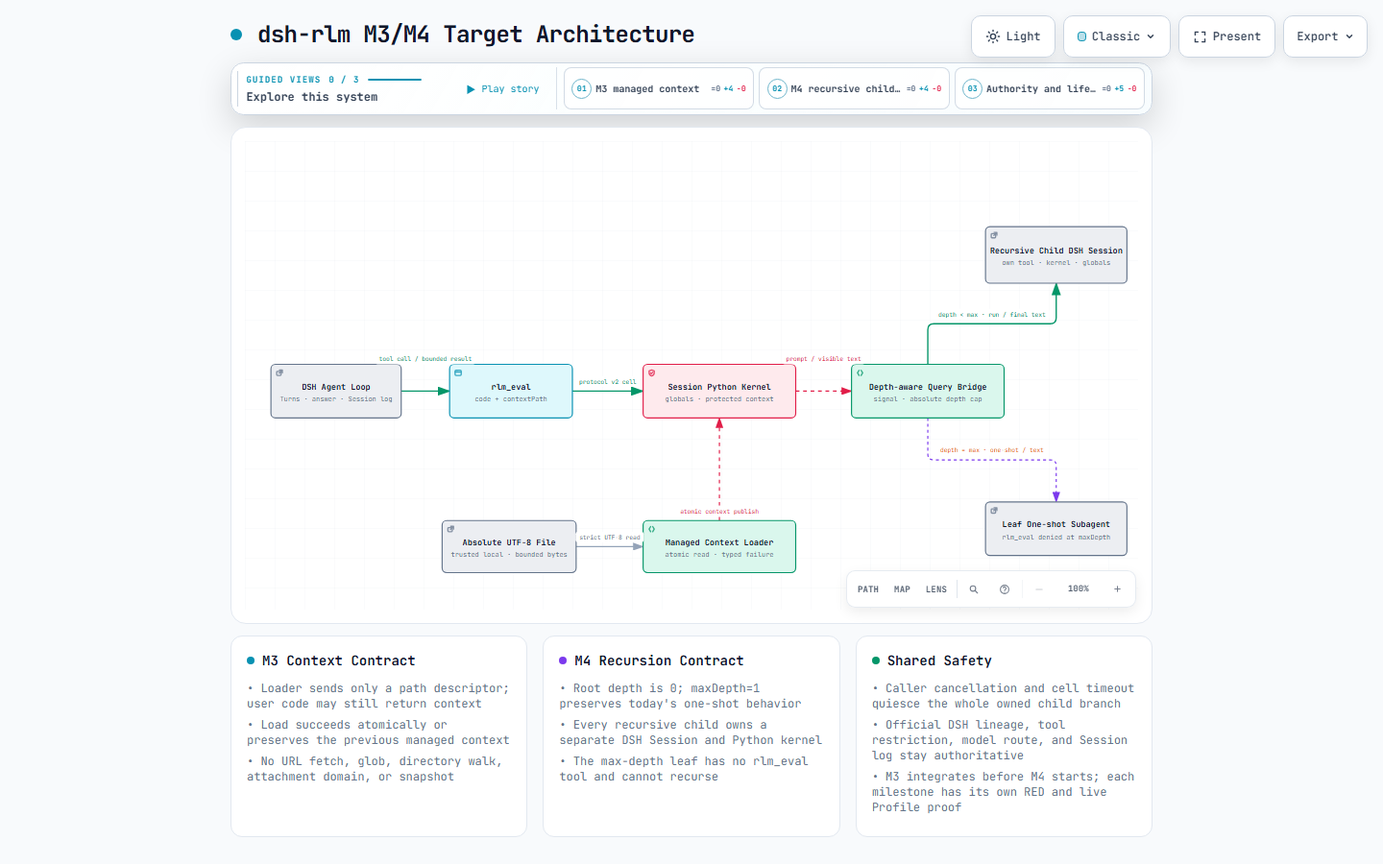
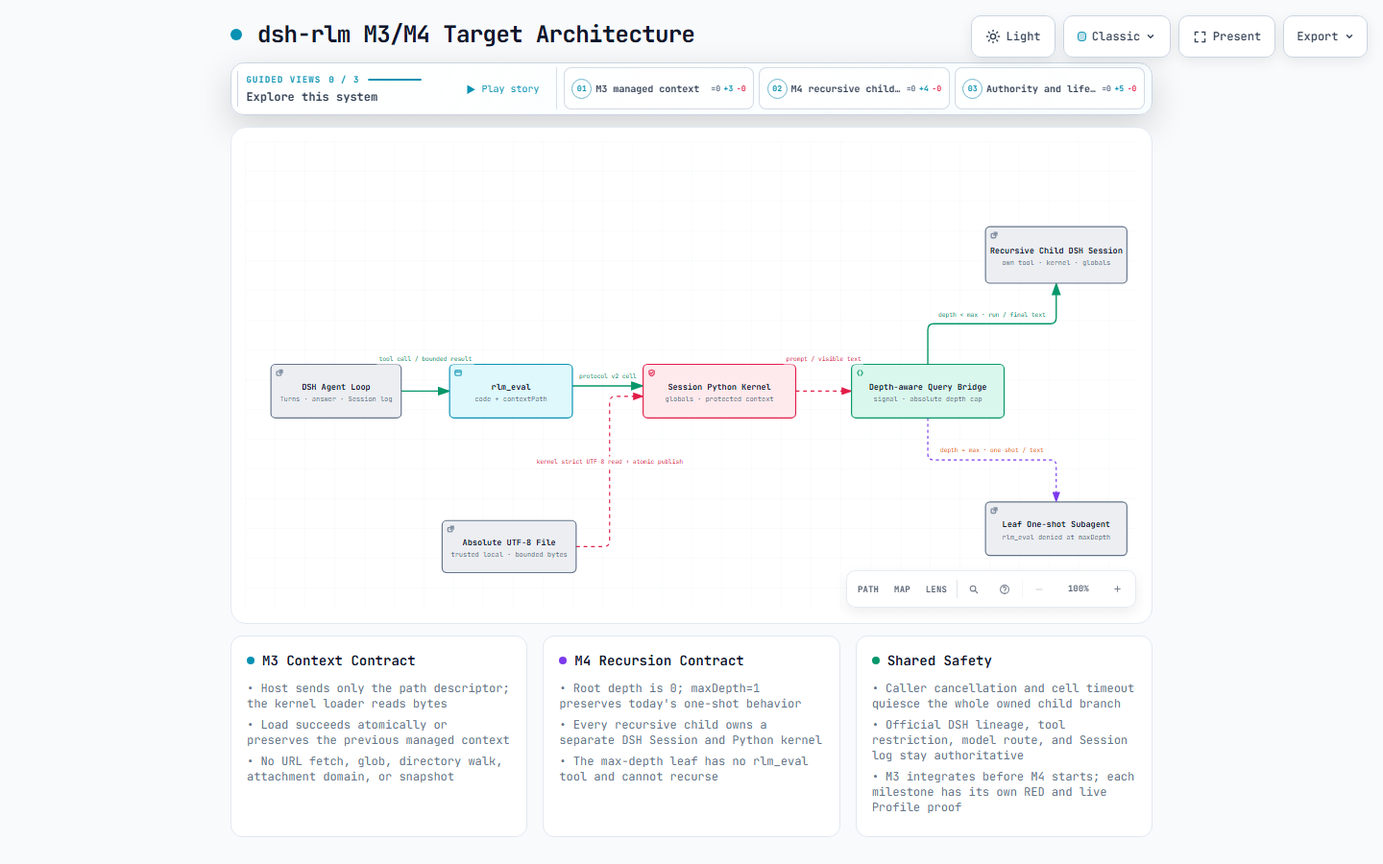
docs: correct M3 diagram ownership boundary

diff --git a/docs/dsh-rlm-architecture.html b/docs/dsh-rlm-architecture.html
@@ -4952,7 +4952,7 @@
       </div>
     </div>
 
-    <script id="archify-guided-views-data" type="application/json">[{"id":"managed-context","label":"M3 managed context","focus":["contextSource","contextLoader","sessionKernel","rlmEval"],"note":"An absolute UTF-8 file becomes a protected Session-local context variable without copying its contents through the model-facing tool call."},{"id":"recursive-child","label":"M4 recursive child RLM","focus":["queryBridge","recursiveChild","leafChild","sessionKernel"],"note":"Depth below the configured cap creates a child DSH Session with its own rlm_eval kernel; the leaf remains a one-shot child."},{"id":"authority-lifecycle","label":"Authority and lifecycle","focus":["agentLoop","rlmEval","sessionKernel","queryBridge","recursiveChild"],"note":"DSH owns Agent turns and Session logs; dsh-rlm owns only Session kernels, managed context state, and query cleanup."}]</script>
+    <script id="archify-guided-views-data" type="application/json">[{"id":"managed-context","label":"M3 managed context","focus":["contextSource","sessionKernel","rlmEval"],"note":"An absolute UTF-8 file becomes a protected Session-local context variable without copying its contents through the model-facing tool call."},{"id":"recursive-child","label":"M4 recursive child RLM","focus":["queryBridge","recursiveChild","leafChild","sessionKernel"],"note":"Depth below the configured cap creates a child DSH Session with its own rlm_eval kernel; the leaf remains a one-shot child."},{"id":"authority-lifecycle","label":"Authority and lifecycle","focus":["agentLoop","rlmEval","sessionKernel","queryBridge","recursiveChild"],"note":"DSH owns Agent turns and Session logs; dsh-rlm owns only Session kernels, managed context state, and query cleanup."}]</script>
 
     <script id="archify-i18n-data" type="application/json">{"locale":"en","messages":{"viewer.kind.frontend":"Frontend","viewer.kind.backend":"Backend","viewer.kind.database":"Database","viewer.kind.cloud":"Cloud","viewer.kind.security":"Security","viewer.kind.messagebus":"Message bus","viewer.kind.external":"External","viewer.kind.neutral":"Neutral","viewer.kind.node":"Node","viewer.kind.start":"Start","viewer.kind.active":"Active","viewer.kind.waiting":"Waiting","viewer.kind.decision":"Decision","viewer.kind.success":"Success","viewer.kind.failure":"Failure","viewer.toolbar.actions":"Diagram actions","viewer.theme.toggle.title":"Toggle theme (T)","viewer.theme.toggle":"Toggle color theme","viewer.theme.dark":"Dark","viewer.theme.light":"Light","viewer.preset.choose.title":"Choose visual style (S cycles)","viewer.preset.choose":"Choose visual style","viewer.preset.style":"Style","viewer.preset.menu":"Visual style","viewer.preset.identity":"Visual identity","viewer.preset.cycles":"S cycles","viewer.preset.classic":"Classic","viewer.preset.classic.short":"Classic","viewer.preset.classic.hint":"Stable technical default","viewer.preset.flow":"Signal Flow","viewer.preset.flow.short":"Flow","viewer.preset.flow.hint":"Motion-forward presentation","viewer.preset.blueprint":"Blueprint","viewer.preset.blueprint.hint":"Engineering review","viewer.preset.editorial":"Editorial","viewer.preset.editorial.hint":"Publication and launch notes","viewer.preset.badge.signalFlow":"SIGNAL FLOW","viewer.preset.badge.blueprint":"BLUEPRINT / REV 01","viewer.preset.badge.editorial":"EDITORIAL / FIELD NOTE","viewer.preset.badge.editorialPlate":"ARCHIFY / PLATE 04","viewer.preset.current":"Visual style: {style}. Choose visual style","viewer.motion.live":"Live","viewer.motion.still":"Still","viewer.motion.pause":"Pause motion","viewer.motion.resume":"Resume motion","viewer.motion.reduced":"Motion paused by reduced-motion preference","viewer.motion.hidden":"Motion paused while this page is hidden","viewer.motion.yielding":"Pause motion; currently yielding to {owner}","viewer.motion.yielding.title":"Live preview enabled · yielding to {owner}","viewer.owner.story":"the guided story","viewer.owner.chapter":"the active chapter","viewer.owner.chapterPreview":"the chapter delta preview","viewer.owner.handoff":"the chapter handoff","viewer.owner.route":"Route Probe","viewer.owner.lens":"Semantic Lens","viewer.owner.relationship":"Relationship Preview","viewer.owner.intent":"Intent Trace","viewer.owner.focus":"semantic focus","viewer.owner.legend":"legend preview","viewer.owner.reader":"reader interaction","viewer.present.enter":"Enter presentation stage","viewer.present.enter.title":"Presentation stage (F)","viewer.present.exit":"Exit presentation stage","viewer.present.exit.title":"Exit presentation stage (F or Escape)","viewer.present.present":"Present","viewer.present.exit.label":"Exit","viewer.export.button":"Export","viewer.export.button.title":"Export diagram (E)","viewer.export.diagram":"Export diagram","viewer.export.menu":"Export","viewer.export.subtitle":"Portable, clean outputs","viewer.export.share":"Share","viewer.export.shareCard":"Share Card","viewer.export.routeShareCard":"Route Share Card","viewer.export.reachShareCard":"Reach Share Card","viewer.export.copyShareCard":"Copy Share Card","viewer.export.copyDiagram":"Copy diagram","viewer.export.clipboardPng":"PNG to clipboard","viewer.export.raster":"Raster images","viewer.export.image":"Image","viewer.export.lossless":"Lossless image","viewer.export.compact":"Compact image","viewer.export.modern":"Modern image","viewer.export.vectorMotion":"Vector and motion","viewer.export.vectorMotion.heading":"Vector \u0026 motion","viewer.export.editable":"Editable vector","viewer.export.motion6s":"6s motion","viewer.export.unsupported":"Not supported by this browser","viewer.export.clipboardUnsupported":"Clipboard image write not supported by this browser","viewer.export.clipboardUnsupported.period":"Clipboard image write not supported by this browser.","viewer.export.clipboardUnsupported.short":"Clipboard image write not supported in this browser.","viewer.export.motionUnavailable":"Motion capture unavailable in this browser","viewer.export.webmUnavailable":"WebM unavailable in this browser","viewer.export.failed":"Export failed: {message}","viewer.export.unknownVariant":"Unknown Share Card variant: {variant}","viewer.export.routeRequired":"Trace a route before exporting a Route Share Card","viewer.export.reachRequired":"Trace authored reach before exporting a Reach Share Card","viewer.export.unknown":"unknown","viewer.export.routeFailed":"Route Share Card export failed: {message}","viewer.export.reachFailed":"Reach Share Card export failed: {message}","viewer.export.copyFailed":"Copy failed: {message}","viewer.export.copiedPng":"Copied PNG to clipboard","viewer.export.copiedShare":"Copied Share Card","viewer.export.downloadedShare":"Downloaded Share Card","viewer.export.downloadedRoute":"Downloaded Route Share Card","viewer.export.downloadedReach":"Downloaded Reach Share Card","viewer.export.downloadedWebm":"Downloaded WebM","viewer.export.recording":"Recording 6 seconds of motion…","viewer.export.card.routeSummary.one":"Route: {source} → {target} · {count} directed hop","viewer.export.card.routeSummary.other":"Route: {source} → {target} · {count} directed hops","viewer.export.card.reachSummary":"Authored {direction} from {origin} · {nodes} · {links} · max {hops}","viewer.export.card.node.one":"{count} node","viewer.export.card.node.other":"{count} nodes","viewer.export.card.link.one":"{count} link","viewer.export.card.link.other":"{count} links","viewer.export.card.hop.one":"{count} hop","viewer.export.card.hop.other":"{count} hops","viewer.export.card.routeBadge":"ARCHIFY · ROUTE · {hops}","viewer.export.card.reachBadge":"ARCHIFY · {direction} REACH","viewer.export.card.defaultBadge":"ARCHIFY · {preset} · {theme}","viewer.export.direction.upstream":"Upstream","viewer.export.direction.downstream":"Downstream","viewer.export.error.canvasUnavailable":"Canvas unavailable for {label}","viewer.export.error.contextUnavailable":"2D canvas context unavailable for {label}","viewer.export.error.toBlobUnavailable":"canvas.toBlob unavailable for {label}","viewer.export.error.toBlobNull":"canvas.toBlob returned no data for {label}","viewer.export.error.variantsCombined":"Share Card variants cannot be combined","viewer.export.error.viewerState":"Share Card export could not remove temporary viewer state","viewer.export.error.routeState":"Route Card export could not preserve the resolved route safely","viewer.export.error.reachState":"Reach Card export could not preserve authored reach safely","viewer.export.error.webmRequirements":"WebM motion export requires a trace animation and browser MediaRecorder support","viewer.export.error.mediaRecorder":"MediaRecorder failed","viewer.export.error.emptyWebm":"MediaRecorder produced an empty WebM","viewer.export.error.webmBackground":"SVG background could not be loaded for WebM export","viewer.guided.region":"Guided diagram views","viewer.guided.previous":"Previous guided view","viewer.guided.previous.title":"Previous guided view ([)","viewer.guided.next":"Next guided view","viewer.guided.next.title":"Next guided view (])","viewer.guided.views":"Guided views","viewer.guided.explore":"Explore this system","viewer.guided.intro":"Step through curated paths without changing the source diagram.","viewer.guided.trail":"Story trail","viewer.guided.beat":"Beat","viewer.guided.nextBeat":"Next","viewer.guided.play":"Play guided story","viewer.guided.play.title":"Play guided story (P)","viewer.guided.pause":"Pause guided story","viewer.guided.pause.title":"Pause guided story (P)","viewer.guided.replay":"Replay guided story","viewer.guided.replay.title":"Replay guided story (P)","viewer.guided.playStory":"Play story","viewer.guided.pauseStory":"Pause","viewer.guided.replayStory":"Replay story","viewer.guided.motionUnavailable":"Story playback unavailable while motion is Still","viewer.guided.enableMotion":"Switch motion to Live to play the guided story","viewer.guided.selectBeatLink":"Select a Story Beat to copy its exact link","viewer.guided.copyMoment":"Copy moment","viewer.guided.momentCopied":"Moment link copied","viewer.guided.momentCopyFailed":"Could not copy story moment link","viewer.guided.copied":"Copied","viewer.guided.copyFailed":"Copy failed","viewer.guided.showAll":"Show all","viewer.guided.showAll.aria":"Show entire diagram","viewer.guided.chapters":"Story chapters","viewer.guided.storyTrail":"Story trail for {label}: {count} beats","viewer.guided.chapter.open":"Open chapter {index} of {total}: {label}, {count} stops","viewer.guided.chapter.current":"Current chapter {index} of {total}: {label}, {count} stops","viewer.guided.chapter.selectedNodes":"{count} selected nodes","viewer.guided.chapter.stops":"{count} stops","viewer.guided.chapter.stop.one":"{count} stop","viewer.guided.chapter.stop.other":"{count} stops","viewer.guided.chapter.current.title":"{label} — current chapter, {count} stops","viewer.guided.chapter.delta.expanded":"{stay} stay, {enter} enter, {leave} leave","viewer.guided.chapter.delta.aria":"Open chapter {index} of {total}: {label}. Chapter focus delta: {delta}","viewer.guided.chapter.delta.title":"{label} — {delta} chapter focus","viewer.guided.handoff":"{from} → {to} · via {label}","viewer.guided.share.chapter":"Chapter {index} / {total}","viewer.guided.share.initial":"Chapter 01 / 01","viewer.guided.share.default":"Guided chapter","viewer.guided.state.ready":"Ready","viewer.guided.state.playing":"Playing","viewer.guided.state.settled":"Settled","viewer.guided.state.paused":"Paused","viewer.guided.state.pinned":"Pinned","viewer.guided.state.still":"Still","viewer.guided.share.step":"Step {index} / {total} · {label}","viewer.guided.share.staticMoment":"{step} · Static moment","viewer.guided.share.complete":"{count} steps complete · {note}","viewer.guided.share.settled":"Path settled for reading.","viewer.guided.share.staticPath":"{count} steps · Static path","viewer.guided.share.ready":"{count} steps · Ready","viewer.guided.share.aria":"{state} chapter {index} of {total}: {label}. {beat}. {route}","viewer.guided.beat.start":"Beat {index} / {total} · {label} · starting point","viewer.guided.beat.forward":"Beat {index} / {total} · {from} → {to}","viewer.guided.beat.reverse":"Beat {index} / {total} · {from} → {to} · reverse authored link","viewer.guided.beat.multiple":"Beat {index} / {total} · {from} ⇄ {to} · {count} authored links","viewer.guided.beat.group":"Beat {index} / {total} · {from} · {to} · grouped · no direct link","viewer.guided.beat.aria.prefix":"Story beat {index} of {total}: {label}. ","viewer.guided.beat.aria.start":"Starting point.","viewer.guided.beat.aria.forward":"From {from} through one authored forward relationship.","viewer.guided.beat.aria.reverse":"From {from}; the authored relationship points from {to} to {from}.","viewer.guided.beat.aria.multiple":"From {from} through {count} authored relationships; shown without arbitrary motion.","viewer.guided.beat.aria.group":"Grouped from {from} with no direct authored relationship.","viewer.guided.caption.start":"Starting point","viewer.guided.caption.grouped":"Grouped transition · no direct authored link","viewer.guided.caption.more":" +{count} more","viewer.guided.caption.reverse":"Reverse authored relationship","viewer.guided.caption.relationships":"{count} authored relationships","viewer.guided.caption.relationship":"Authored relationship","viewer.guided.caption.direction":"authored direction: {from} → {to}","viewer.guided.caption.starting":"Authored starting point","viewer.guided.beatLink":"Copy link to current story moment: Beat {index} of {total}: {label}","viewer.guided.noStory":"This diagram has no authored guided story.","viewer.guide.eyebrow":"Diagram guide","viewer.guide.close":"Close diagram guide","viewer.guide.inspecting":"Inspecting compiled semantics","viewer.guide.actions":"Diagram exploration actions","viewer.guide.find":"Find any node","viewer.guide.find.hint":"Search labels, responsibilities, kinds, and stable IDs.","viewer.guide.route":"Trace a route","viewer.guide.route.aria":"Trace a directed route","viewer.guide.route.hint":"Ask how two semantic nodes connect in authored direction.","viewer.guide.map":"See the whole system","viewer.guide.map.hint":"Open Semantic Radar with a live viewport and stable nodes.","viewer.guide.lens":"Compare semantic kinds","viewer.guide.lens.hint":"Count roles, reveal their traffic, and compare direct authored links.","viewer.guide.story":"Play the guided story","viewer.guide.story.hint":"Walk the authored chapters and real relationships.","viewer.guide.present":"Enter Presentation Stage","viewer.guide.present.hint":"Give the live diagram the viewport without changing export.","viewer.guide.shortcuts":"Additional keyboard shortcuts","viewer.guide.shortcut.export":"Export","viewer.guide.shortcut.theme":"Theme","viewer.guide.shortcut.style":"Style","viewer.guide.shortcut.reset":"Reset","viewer.guide.shortcut.zoomIn":"Zoom in","viewer.guide.shortcut.zoomOut":"Zoom out","viewer.guide.shortcut.close":"Close","viewer.guide.facts":"{nodes} · {relationships} · {views}","viewer.guide.fact.node.one":"{count} semantic node","viewer.guide.fact.node.other":"{count} semantic nodes","viewer.guide.fact.relationship.one":"{count} relationship","viewer.guide.fact.relationship.other":"{count} relationships","viewer.guide.fact.view.one":"{count} guided view","viewer.guide.fact.view.other":"{count} guided views","viewer.guide.story.available.one":"Walk {count} authored chapter and its real relationships.","viewer.guide.story.available.other":"Walk {count} authored chapters and their real relationships.","viewer.guide.story.unavailable":"No authored guided story in this diagram.","viewer.guide.open":"Open diagram guide","viewer.guide.noStory":"This diagram has no authored guided story.","viewer.finder.title":"Find a node","viewer.finder.close":"Close node finder","viewer.finder.placeholder":"Search labels or IDs","viewer.finder.search":"Search diagram nodes","viewer.finder.results":"Diagram nodes","viewer.finder.empty":"No matching nodes","viewer.finder.result.focus":"Focus {label}","viewer.finder.result.routeStart":"Choose {label} as route start","viewer.finder.result.routeTarget":"Choose {label} as route destination, {links}","viewer.finder.status.empty":"No matching nodes","viewer.finder.status.count.one":"{count} matching node","viewer.finder.status.count.other":"{count} matching nodes","viewer.finder.noun.nodes":"nodes","viewer.finder.link.one":"{count} link","viewer.finder.link.other":"{count} links","viewer.finder.result.focus.one":"Focus {label}, {count} related connection","viewer.finder.result.focus.other":"Focus {label}, {count} related connections","viewer.finder.status.filtered":"{visible} of {available} {noun}","viewer.finder.status.all":"{available} {noun}","viewer.passport.eyebrow":"Semantic passport","viewer.passport.metadata":"Node metadata","viewer.passport.evidence":"Verified source evidence","viewer.passport.verified":"Verified source","viewer.passport.reach":"Authored reach","viewer.passport.reach.trace":"Trace authored reachability","viewer.passport.upstream":"Upstream","viewer.passport.downstream":"Downstream","viewer.passport.upstream.trace":"Trace upstream authored reachability","viewer.passport.downstream.trace":"Trace downstream authored reachability","viewer.passport.close":"Close semantic passport","viewer.passport.copy":"Copy link","viewer.passport.copy.focus":"Copy link to focused node","viewer.passport.relations":"Relations","viewer.passport.relations.show":"Show connected relationships","viewer.passport.relations.hide":"Hide connected relationships","viewer.passport.relations.list":"Connected relationships","viewer.passport.copyRelation":"Copy relation","viewer.passport.copyNode":"Copy node","viewer.passport.copyPinned":"Copy link to pinned relationship","viewer.passport.copySource":"Copy link to source node","viewer.passport.copy.focused.success":"Focused node link copied","viewer.passport.copy.pinned.success":"Pinned relationship link copied","viewer.passport.copy.focused.failed":"Could not copy focused node link","viewer.passport.copy.pinned.failed":"Could not copy pinned relationship link","viewer.passport.relationship.none":"No connected relationships","viewer.passport.relationship.count.one":"{count} relation","viewer.passport.relationship.count.other":"{count} relations","viewer.passport.relationship.show.one":"Show {count} connected relationship","viewer.passport.relationship.show.other":"Show {count} connected relationships","viewer.passport.relationship.summary":"{out} outgoing · {in} incoming{loops}","viewer.passport.relationship.loops":" · {count} loop","viewer.passport.relationship.explorer":"Direct relationship explorer","viewer.passport.relationship.help":"Use arrow keys to explore relationships. Press Enter or Space to pin details; Escape clears.","viewer.passport.relationship.loopsBack":"loops back","viewer.passport.relationship.connectsTo":"connects to","viewer.passport.relationship.connectsFrom":"connects from","viewer.passport.relationship.pinned":"Pinned relationship · {from} → {to} · {label}","viewer.passport.relationship.inspect":"Inspect relationship {index} of {total}: {from} to {to}, {label}. Press Enter for details.","viewer.passport.relationship.group.out":"Outgoing","viewer.passport.relationship.group.in":"Incoming","viewer.passport.relationship.group.loop":"Self loops","viewer.passport.relationship.row":"{group}: {relationship}, {neighbor}","viewer.passport.relationship.direction.out":"OUT →","viewer.passport.relationship.direction.in":"← IN","viewer.passport.relationship.direction.loop":"LOOP","viewer.passport.sourceCount.one":"{count} verified source reference","viewer.passport.sourceCount.other":"{count} verified source references","viewer.passport.sourceMarker":"SRC","viewer.passport.beacon.one":"{count} verified source; focus this node to inspect","viewer.passport.beacon.other":"{count} verified sources; focus this node to inspect","viewer.passport.repository.open":"Open verified repository revision {revision}","viewer.passport.source.open":"Open verified source {path} at revision {revision}","viewer.passport.source.openLink":"Open ↗","viewer.passport.reach.upstream.one":"Trace {count} upstream authored node","viewer.passport.reach.upstream.other":"Trace {count} upstream authored nodes","viewer.passport.reach.downstream.one":"Trace {count} downstream authored node","viewer.passport.reach.downstream.other":"Trace {count} downstream authored nodes","viewer.passport.reach.noUpstream":"No upstream authored nodes","viewer.passport.reach.noDownstream":"No downstream authored nodes","viewer.passport.reach.status":"{direction} · {nodes} nodes · {links} links · max {hops} hops","viewer.route.eyebrow":"Route probe","viewer.route.start":"Choose a start node","viewer.route.start.find":"Find start","viewer.route.start.find.aria":"Find a route start","viewer.route.copy":"Copy link","viewer.route.copy.aria":"Copy link to traced route","viewer.route.clear":"Clear","viewer.route.clear.aria":"Clear route probe","viewer.route.traced":"Traced route","viewer.route.pickTwo":"Pick two semantic nodes on the diagram","viewer.route.pickOne":"Pick a semantic node on the diagram","viewer.route.controls":"Route journey controls","viewer.route.previous":"Previous route position","viewer.route.play":"Play route journey","viewer.route.pause":"Pause route journey","viewer.route.replay":"Replay route journey","viewer.route.next":"Next route position","viewer.route.journey":"Journey","viewer.route.pause.label":"Pause","viewer.route.replay.label":"Replay","viewer.route.overview":"Overview","viewer.route.overview.aria":"Show complete route overview","viewer.route.instructions":"Choose the source, then the destination. Direction matters.","viewer.route.destination":"Choose a destination from {label}","viewer.route.destination.find":"Find target","viewer.route.destination.find.aria":"Find a reachable route destination","viewer.route.differentDestination":"Choose a different destination","viewer.route.distinct":"A route needs two distinct semantic nodes.","viewer.route.unreachable":"No directed route to {label}","viewer.route.unreachable.detail":"{target} is not reachable from {source}. Pick a highlighted destination.","viewer.route.start.instructions":"Select the source. The next step will reveal only directed destinations.","viewer.route.copy.success":"Traced route link copied","viewer.route.copy.failed":"Could not copy traced route link","viewer.route.position":"Route position {index} of {total}: {label}","viewer.route.step":"Step {index} of {total} · {phase} · {label}","viewer.route.motionRequired":"Automatic journey requires Live motion","viewer.route.trigger.clear":"Clear traced route","viewer.route.overview.status":"{nodes} · {hops} · shortest authored route","viewer.route.overview.node.one":"{count} node","viewer.route.overview.node.other":"{count} nodes","viewer.route.overview.hop.one":"{count} directed hop","viewer.route.overview.hop.other":"{count} directed hops","viewer.route.phase.playing":"Playing","viewer.route.phase.complete":"Complete","viewer.route.phase.inspecting":"Inspecting","viewer.route.destination.count.one":"{count} directed destination available. Pick a highlighted node.","viewer.route.destination.count.other":"{count} directed destinations available. Pick a highlighted node.","viewer.route.noOutgoing":"No outgoing route starts here. Clear and choose another source.","viewer.route.result.title":"{source} to {target}","viewer.route.finder.source.title":"Choose route start","viewer.route.finder.source.placeholder":"Search route sources","viewer.route.finder.source.empty":"No matching route sources","viewer.route.finder.source.results":"Nodes that can start a route","viewer.route.finder.source.noun":"route sources","viewer.route.finder.source.badge":"start","viewer.route.finder.target.title":"Destination from {label}","viewer.route.finder.target.placeholder":"Search reachable destinations","viewer.route.finder.target.empty":"No matching reachable destinations","viewer.route.finder.target.results":"Reachable route destinations","viewer.route.finder.target.noun":"reachable destinations","viewer.route.hop.one":"{count} hop","viewer.route.hop.other":"{count} hops","viewer.lens.eyebrow":"Semantic lens","viewer.lens.title":"Compare system roles","viewer.lens.close":"Close semantic lens","viewer.lens.instruction":"Choose up to two semantic kinds. One reveals its real traffic; two compare only direct authored relationships.","viewer.lens.kinds":"Semantic kinds","viewer.lens.choose":"Choose a kind to inspect its nodes and touching relationships.","viewer.lens.copy":"Copy link to semantic lens","viewer.lens.clear":"Clear semantic lens","viewer.lens.open":"Open semantic lens","viewer.lens.openActive":"Open active semantic lens","viewer.lens.legend":"Semantic legend","viewer.lens.legend.inspect.one":"Inspect {label}, {count} node","viewer.lens.legend.inspect.other":"Inspect {label}, {count} nodes","viewer.lens.kind.count.one":"{label}, {count} node","viewer.lens.kind.count.other":"{label}, {count} nodes","viewer.lens.compare.one":"{first} → {second}: {forward} · {second} → {first}: {reverse} · {count} direct relationship","viewer.lens.compare.other":"{first} → {second}: {forward} · {second} → {first}: {reverse} · {count} direct relationships","viewer.lens.single":"{nodes} · {relationships} · connected peers remain visible","viewer.lens.node.one":"{count} {label} node","viewer.lens.node.other":"{count} {label} nodes","viewer.lens.relationship.one":"{count} touching relationship","viewer.lens.relationship.other":"{count} touching relationships","viewer.radar.title":"Semantic radar","viewer.radar.building":"Building overview","viewer.radar.openFull":"Open full semantic radar","viewer.radar.open":"Open radar","viewer.radar.close":"Close semantic radar","viewer.radar.surface":"Diagram overview. Click a node to focus it, or use arrow keys to pan.","viewer.radar.click":"Click node","viewer.radar.drag":"Drag to pan","viewer.radar.space":"Semantic radar needs more MAP space.","viewer.radar.nodes":"Semantic diagram radar nodes","viewer.radar.focus":"Focus {label} from Semantic Radar","viewer.radar.status":"{count} nodes · {viewport}","viewer.radar.fullMap":"{count} nodes · full map","viewer.radar.compacted":"Radar compacted to avoid covering the Semantic Passport or MAP controls.","viewer.radar.cancelWaiting":"Cancel semantic radar waiting for more MAP space","viewer.radar.needsSpace":"Semantic radar needs more visible MAP space","viewer.radar.viewport.full":"full map","viewer.radar.viewport.width":"{percent}% width","viewer.radar.viewport.scale":"{percent}% viewport","viewer.nav.controls":"Diagram view controls","viewer.nav.route":"Trace a directed route","viewer.nav.route.title":"Trace route (R)","viewer.nav.route.short":"PATH","viewer.nav.radar":"Open semantic radar","viewer.nav.radar.title":"Semantic radar (M)","viewer.nav.radar.short":"MAP","viewer.nav.lens":"Open semantic lens","viewer.nav.lens.title":"Semantic lens (L)","viewer.nav.lens.short":"LENS","viewer.nav.find":"Find a node","viewer.nav.find.title":"Find a node (/)","viewer.nav.guide":"Open diagram guide","viewer.nav.guide.title":"Diagram guide (?)","viewer.nav.zoomOut":"Zoom out","viewer.nav.zoomOut.title":"Zoom out (-)","viewer.nav.reset":"Reset diagram view","viewer.nav.reset.title":"Reset view (0)","viewer.nav.read":"READ","viewer.nav.zoomIn":"Zoom in","viewer.nav.zoomIn.title":"Zoom in (+)","viewer.nav.camera":"{hint}. Reset diagram view","viewer.nav.camera.title":"{semantic}{hint} · reset view (0)","viewer.nav.camera.semantic":"Semantic camera active · ","viewer.nav.level.map":"MAP","viewer.nav.level.read":"READ","viewer.nav.level.full":"FULL","viewer.nav.level.auto":"AUTO","viewer.nav.detail.map":"Zoom in to reveal relationship labels and node context","viewer.nav.detail.read":"Zoom in again to reveal tags and annotations","viewer.nav.detail.full":"Full diagram detail","viewer.intent.summary":"{label}. {out} outgoing, {in} incoming{loops}. {total} connections. Press Enter for details.","viewer.intent.loops":", {count} self loop","viewer.common.copied":"Copied","viewer.common.copyFailed":"Copy failed","viewer.common.copyLink":"Copy link","viewer.common.clear":"Clear","viewer.common.close":"Close"}}</script>
     <div class="guided-views no-print" id="guided-views" hidden aria-label="Guided diagram views">
@@ -5027,12 +5027,11 @@
 
         <!-- Connection paths (before components for correct z-order) -->
         <path data-edge-from="agentLoop" data-edge-to="rlmEval" data-edge-label="tool call / bounded result" data-edge-key="0" data-edge-id="agentEval" data-composition-points="210,336;275,336" d="M 210 336 L 275 336" class="a-emphasis" stroke-width="1.8" marker-end="url(#arrowhead-emphasis)"/>
-        <path data-edge-from="rlmEval" data-edge-to="sessionKernel" data-edge-label="protocol v2 cell" data-edge-key="1" data-edge-id="evalKernel" data-composition-points="440,336;535,336" d="M 440 336 L 535 336" class="a-emphasis" stroke-width="1.8" marker-end="url(#arrowhead-emphasis)"/>
-        <path data-edge-from="contextSource" data-edge-to="contextLoader" data-edge-label="strict UTF-8 read" data-edge-key="2" data-edge-id="sourceLoader" data-composition-points="445,545;535,545" d="M 445 545 L 535 545" class="a-default" stroke-width="1.5" marker-end="url(#arrowhead)"/>
-        <path data-edge-from="contextLoader" data-edge-to="sessionKernel" data-edge-label="atomic context publish" data-edge-key="3" data-edge-id="loaderKernel" data-composition-points="637.5,510;637.5,372" d="M 637.5 510 L 637.5 372" class="a-security" stroke-width="1.5" marker-end="url(#arrowhead-security)"/>
-        <path data-edge-from="sessionKernel" data-edge-to="queryBridge" data-edge-label="prompt / visible text" data-edge-key="4" data-edge-id="kernelQuery" data-composition-points="740,336;815,336" d="M 740 336 L 815 336" class="a-security" stroke-width="1.5" marker-end="url(#arrowhead-security)"/>
-        <path data-edge-from="queryBridge" data-edge-to="recursiveChild" data-edge-label="depth &lt; max · run / final text" data-edge-key="5" data-edge-id="bridgeRecursive" data-composition-points="917.5,300;917.5,245.5;1090,245.5;1090,191" d="M 917.5 300 L 917.5 253.5 Q 917.5 245.5 925.5 245.5 L 1082 245.5 Q 1090 245.5 1090 237.5 L 1090 191" class="a-emphasis" stroke-width="1.8" marker-end="url(#arrowhead-emphasis)"/>
-        <path data-edge-from="queryBridge" data-edge-to="leafChild" data-edge-label="depth = max · one-shot / text" data-edge-key="6" data-edge-id="bridgeLeaf" data-composition-points="917.5,372;917.5,428.5;1090,428.5;1090,485" d="M 917.5 372 L 917.5 420.5 Q 917.5 428.5 925.5 428.5 L 1082 428.5 Q 1090 428.5 1090 436.5 L 1090 485" class="a-dashed" stroke-width="1.5" marker-end="url(#arrowhead-dashed)"/>
+        <path data-edge-from="rlmEval" data-edge-to="sessionKernel" data-edge-label="protocol v2 cell" data-edge-key="1" data-edge-id="evalKernel" data-composition-points="440,329;535,329" d="M 440 329 L 535 329" class="a-emphasis" stroke-width="1.8" marker-end="url(#arrowhead-emphasis)"/>
+        <path data-edge-from="contextSource" data-edge-to="sessionKernel" data-edge-label="kernel strict UTF-8 read + atomic publish" data-edge-key="2" data-edge-id="sourceLoader" data-composition-points="445,545;490,545;490,343;535,343" d="M 445 545 L 482 545 Q 490 545 490 537 L 490 351 Q 490 343 498 343 L 535 343" class="a-security" stroke-width="1.5" marker-end="url(#arrowhead-security)"/>
+        <path data-edge-from="sessionKernel" data-edge-to="queryBridge" data-edge-label="prompt / visible text" data-edge-key="3" data-edge-id="kernelQuery" data-composition-points="740,336;815,336" d="M 740 336 L 815 336" class="a-security" stroke-width="1.5" marker-end="url(#arrowhead-security)"/>
+        <path data-edge-from="queryBridge" data-edge-to="recursiveChild" data-edge-label="depth &lt; max · run / final text" data-edge-key="4" data-edge-id="bridgeRecursive" data-composition-points="917.5,300;917.5,245.5;1090,245.5;1090,191" d="M 917.5 300 L 917.5 253.5 Q 917.5 245.5 925.5 245.5 L 1082 245.5 Q 1090 245.5 1090 237.5 L 1090 191" class="a-emphasis" stroke-width="1.8" marker-end="url(#arrowhead-emphasis)"/>
+        <path data-edge-from="queryBridge" data-edge-to="leafChild" data-edge-label="depth = max · one-shot / text" data-edge-key="5" data-edge-id="bridgeLeaf" data-composition-points="917.5,372;917.5,428.5;1090,428.5;1090,485" d="M 917.5 372 L 917.5 420.5 Q 917.5 428.5 925.5 428.5 L 1082 428.5 Q 1090 428.5 1090 436.5 L 1090 485" class="a-dashed" stroke-width="1.5" marker-end="url(#arrowhead-dashed)"/>
 
         <!-- Components -->
         <g id="node-agentLoop" data-node-id="agentLoop" data-node-label="DSH Agent Loop" tabindex="0" role="button" aria-label="Focus DSH Agent Loop, Turns · answer · Session log, Architecture component" aria-pressed="false" data-node-kind="external" data-node-sublabel="Turns · answer · Session log" data-node-context="Architecture component">
@@ -5120,43 +5119,28 @@
         <text data-detail="context" x="355" y="559" class="t-muted" font-size="9" text-anchor="middle">trusted local · bounded bytes</text>
         </g>
 
-        <g id="node-contextLoader" data-node-id="contextLoader" data-node-label="Managed Context Loader" tabindex="0" role="button" aria-label="Focus Managed Context Loader, atomic read · typed failure, Architecture component" aria-pressed="false" data-node-kind="backend" data-node-sublabel="atomic read · typed failure" data-node-context="Architecture component">
-          <title>Managed Context Loader · atomic read · typed failure · Architecture component</title>
-          <rect x="535" y="510" width="205" height="70" rx="6" class="c-mask"/>
-          <rect x="535" y="510" width="205" height="70" rx="6" class="c-backend" stroke-width="1.5"/>
-          <g aria-hidden="true" data-semantic-sigil="backend" class="semantic-sigil s-backend" transform="translate(541 516) scale(0.6875)">
-            <path d="M6 3 3 8l3 5M10 3l3 5-3 5"/>
-          </g>
-          <text data-node-label="" data-detail-anchor="" x="637.5" y="543" class="t-primary" font-size="11" font-weight="600" text-anchor="middle">Managed Context Loader</text>
-        <text data-detail="context" x="637.5" y="559" class="t-muted" font-size="9" text-anchor="middle">atomic read · typed failure</text>
-        </g>
-
         <!-- Connection labels -->
         <g data-detail="context" data-edge-from="agentLoop" data-edge-to="rlmEval" data-edge-label="tool call / bounded result" data-edge-key="0" data-edge-id="agentEval">
           <rect x="175.1" y="286" width="134.8" height="14" rx="3" class="c-mask"/>
           <text x="242.5" y="296" class="t-backend" font-size="8" text-anchor="middle">tool call / bounded result</text>
         </g>
         <g data-detail="context" data-edge-from="rlmEval" data-edge-to="sessionKernel" data-edge-label="protocol v2 cell" data-edge-key="1" data-edge-id="evalKernel">
-          <rect x="444.1" y="316" width="86.8" height="14" rx="3" class="c-mask"/>
-          <text x="487.5" y="326" class="t-backend" font-size="8" text-anchor="middle">protocol v2 cell</text>
+          <rect x="444.1" y="309" width="86.8" height="14" rx="3" class="c-mask"/>
+          <text x="487.5" y="319" class="t-backend" font-size="8" text-anchor="middle">protocol v2 cell</text>
         </g>
-        <g data-detail="context" data-edge-from="contextSource" data-edge-to="contextLoader" data-edge-label="strict UTF-8 read" data-edge-key="2" data-edge-id="sourceLoader">
-          <rect x="444.2" y="525" width="91.6" height="14" rx="3" class="c-mask"/>
-          <text x="490" y="535" class="t-muted" font-size="8" text-anchor="middle">strict UTF-8 read</text>
+        <g data-detail="context" data-edge-from="contextSource" data-edge-to="sessionKernel" data-edge-label="kernel strict UTF-8 read + atomic publish" data-edge-key="2" data-edge-id="sourceLoader">
+          <rect x="386.6" y="424" width="206.79999999999998" height="14" rx="3" class="c-mask"/>
+          <text x="490" y="434" class="t-security" font-size="8" text-anchor="middle">kernel strict UTF-8 read + atomic publish</text>
         </g>
-        <g data-detail="context" data-edge-from="contextLoader" data-edge-to="sessionKernel" data-edge-label="atomic context publish" data-edge-key="3" data-edge-id="loaderKernel">
-          <rect x="579.7" y="490" width="115.6" height="14" rx="3" class="c-mask"/>
-          <text x="637.5" y="500" class="t-security" font-size="8" text-anchor="middle">atomic context publish</text>
-        </g>
-        <g data-detail="context" data-edge-from="sessionKernel" data-edge-to="queryBridge" data-edge-label="prompt / visible text" data-edge-key="4" data-edge-id="kernelQuery">
+        <g data-detail="context" data-edge-from="sessionKernel" data-edge-to="queryBridge" data-edge-label="prompt / visible text" data-edge-key="3" data-edge-id="kernelQuery">
           <rect x="722.1" y="286" width="110.8" height="14" rx="3" class="c-mask"/>
           <text x="777.5" y="296" class="t-security" font-size="8" text-anchor="middle">prompt / visible text</text>
         </g>
-        <g data-detail="context" data-edge-from="queryBridge" data-edge-to="recursiveChild" data-edge-label="depth &lt; max · run / final text" data-edge-key="5" data-edge-id="bridgeRecursive">
+        <g data-detail="context" data-edge-from="queryBridge" data-edge-to="recursiveChild" data-edge-label="depth &lt; max · run / final text" data-edge-key="4" data-edge-id="bridgeRecursive">
           <rect x="926.75" y="225.5" width="154" height="14" rx="3" class="c-mask"/>
           <text x="1003.75" y="235.5" class="t-backend" font-size="8" text-anchor="middle">depth &lt; max · run / final text</text>
         </g>
-        <g data-detail="context" data-edge-from="queryBridge" data-edge-to="leafChild" data-edge-label="depth = max · one-shot / text" data-edge-key="6" data-edge-id="bridgeLeaf">
+        <g data-detail="context" data-edge-from="queryBridge" data-edge-to="leafChild" data-edge-label="depth = max · one-shot / text" data-edge-key="5" data-edge-id="bridgeLeaf">
           <rect x="929.15" y="408.5" width="149.2" height="14" rx="3" class="c-mask"/>
           <text x="1003.75" y="418.5" class="t-messagebus" font-size="8" text-anchor="middle">depth = max · one-shot / text</text>
         </g>
@@ -5358,7 +5342,7 @@
           <h3>M3 Context Contract</h3>
         </div>
         <ul>
-          <li>&bull; Loader sends only a path descriptor; user code may still return context</li>
+          <li>&bull; Host sends only the path descriptor; the kernel loader reads bytes</li>
           <li>&bull; Load succeeds atomically or preserves the previous managed context</li>
           <li>&bull; No URL fetch, glob, directory walk, attachment domain, or snapshot</li>
         </ul>
